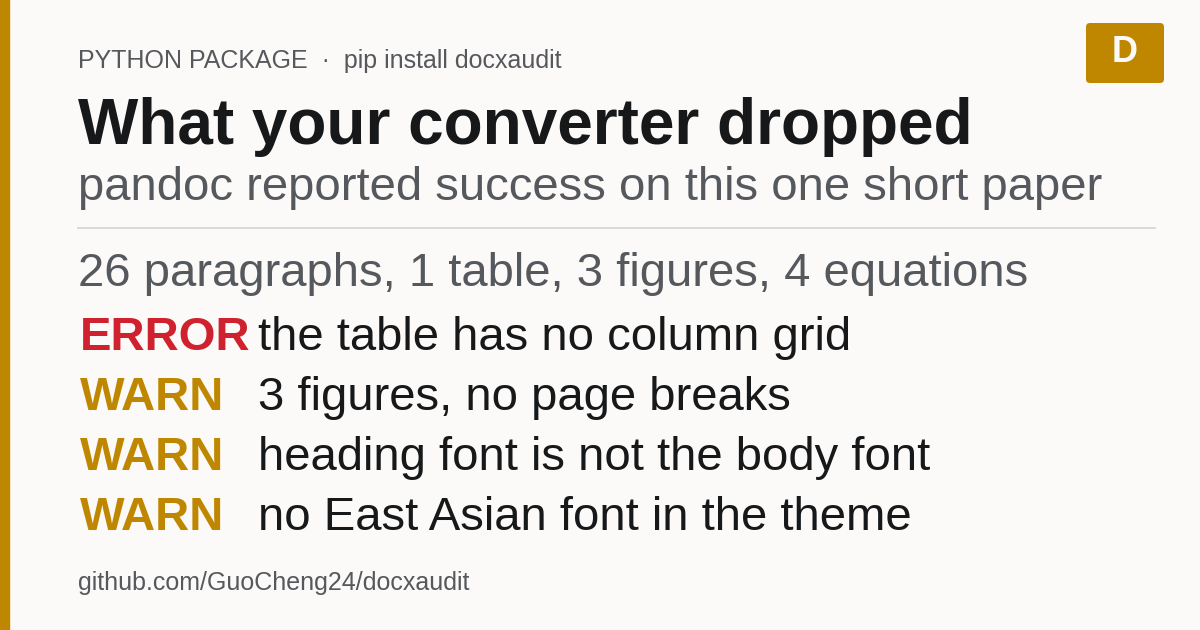
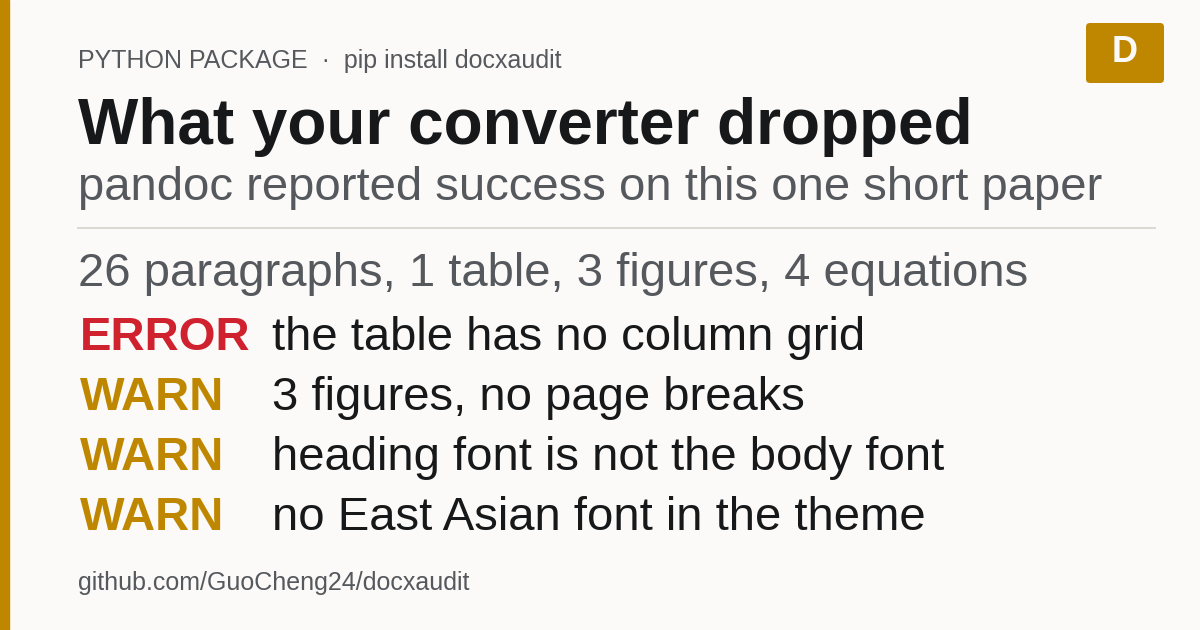
Report text that merely touches, which reads as one word and passed every check
"SUSPECT10.9999/nonexistent" and "ERRORthe table has no column grid" were on
two cards. The boxes overlapped by eight and seven pixels - far too little area
for the collision test, which divides by the area of a whole string - and
nothing else looks at the space between two texts at all. Both were looked at
by eye first and adjusted by hand, twice, and were still touching.

cardcheck now reports two texts on the same line whose gap is under a third of
a character, negative gaps included, since a small overlap and a zero gap read
the same way on the page. Run across every card it found two more that had
already been reviewed and signed off.

Changed region(s): [[0.2158, 0.6937, 0.8017, 0.8444], [0.2158, 0.4825, 0.74, 0.6635]]

diff --git a/.github/assets/cardcheck.py b/.github/assets/cardcheck.py
@@ -102,6 +102,25 @@ def audit(fig, ax, ground, panels=(), chrome=(), min_ratio=4.5, verbose=True):
             problems.append(
                 f"{size_px:.0f} px is {size_px * UNFURL:.1f} px at 360 - unreadable: {s[:40]!r}")
 
+    # Texts that merely touch are not an overlap and pass the collision test, but they read
+    # as one run-on word: "SUSPECT10.9999/..." and "ERRORthe table has...". A gap of less than
+    # a third of a character between two texts on the same line is reported.
+    items = [(t, t.get_window_extent(r)) for t in ax.texts if t.get_text().strip()]
+    for i in range(len(items)):
+        for j in range(len(items)):
+            if i == j:
+                continue
+            (ta, ba), (tb, bb) = items[i], items[j]
+            same_line = min(ba.y1, bb.y1) - max(ba.y0, bb.y0) > 0.4 * min(ba.height, bb.height)
+            gap = bb.x0 - ba.x1
+            per_char = ba.width / max(len(ta.get_text().strip()), 1)
+            # gap may be negative: the boxes genuinely overlap, by an area too small for
+            # the collision test to notice. Both cases read the same way on the page.
+            if same_line and gap < 0.33 * per_char and bb.x0 > ba.x0:
+                problems.append(
+                    f"{ta.get_text()[:22]!r} and {tb.get_text()[:22]!r} are {gap:.0f} px "
+                    "apart and read as one word")
+
     if message_area and chrome_area > 0.45 * message_area:
         problems.append(
             f"chrome is {100 * chrome_area / (chrome_area + message_area):.0f}% of the "

diff --git a/.github/assets/make_social_preview.py b/.github/assets/make_social_preview.py
@@ -42,7 +42,7 @@ def chart(ax, accent):
         colour = "#cf222e" if red else "#bf8700"
         ax.text(0.80, y, "ERROR" if red else "WARN", fontsize=34, fontweight="bold",
                 color=colour, family=SANS, va="center")
-        ax.text(2.58, y, SHORT.get(code, code), fontsize=34, color="#17181a",
+        ax.text(2.72, y, SHORT.get(code, code), fontsize=34, color="#17181a",
                 family=SANS, va="center")
         y -= 0.60
 
